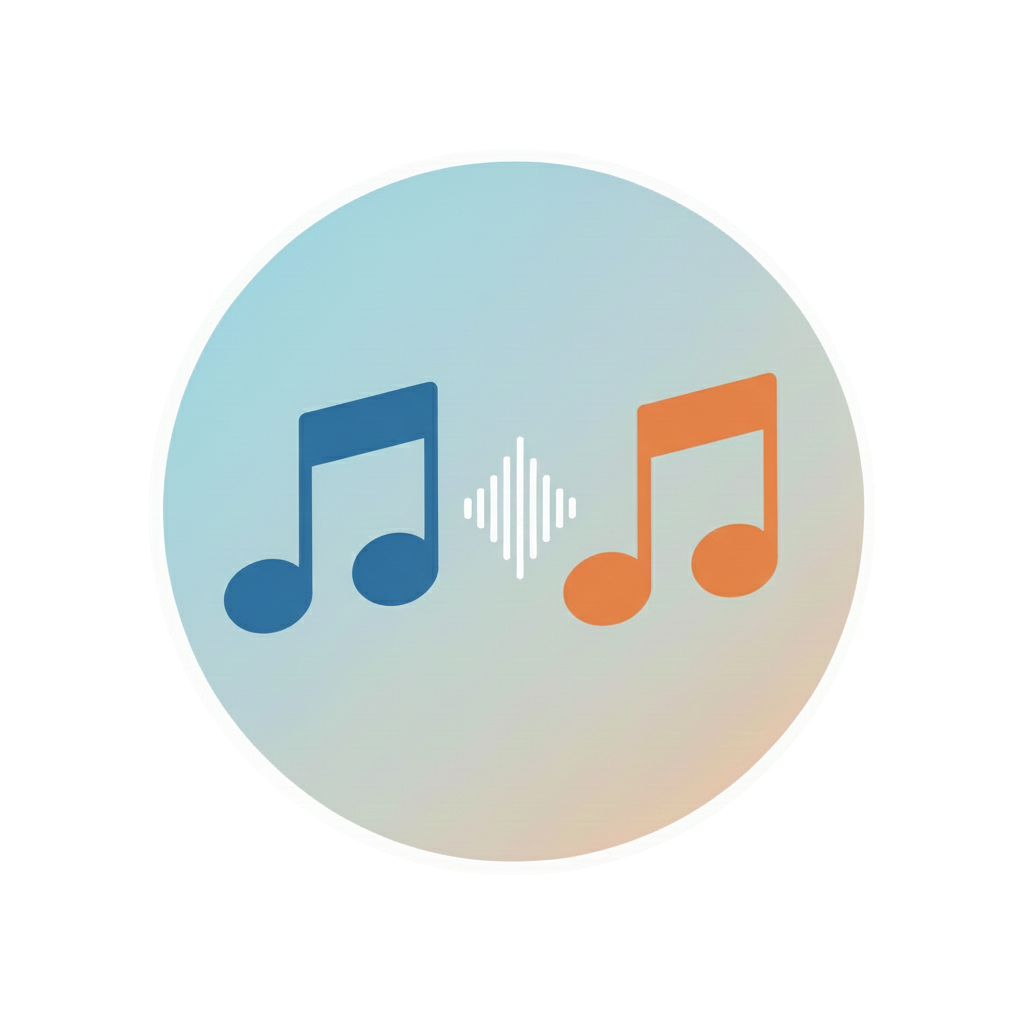
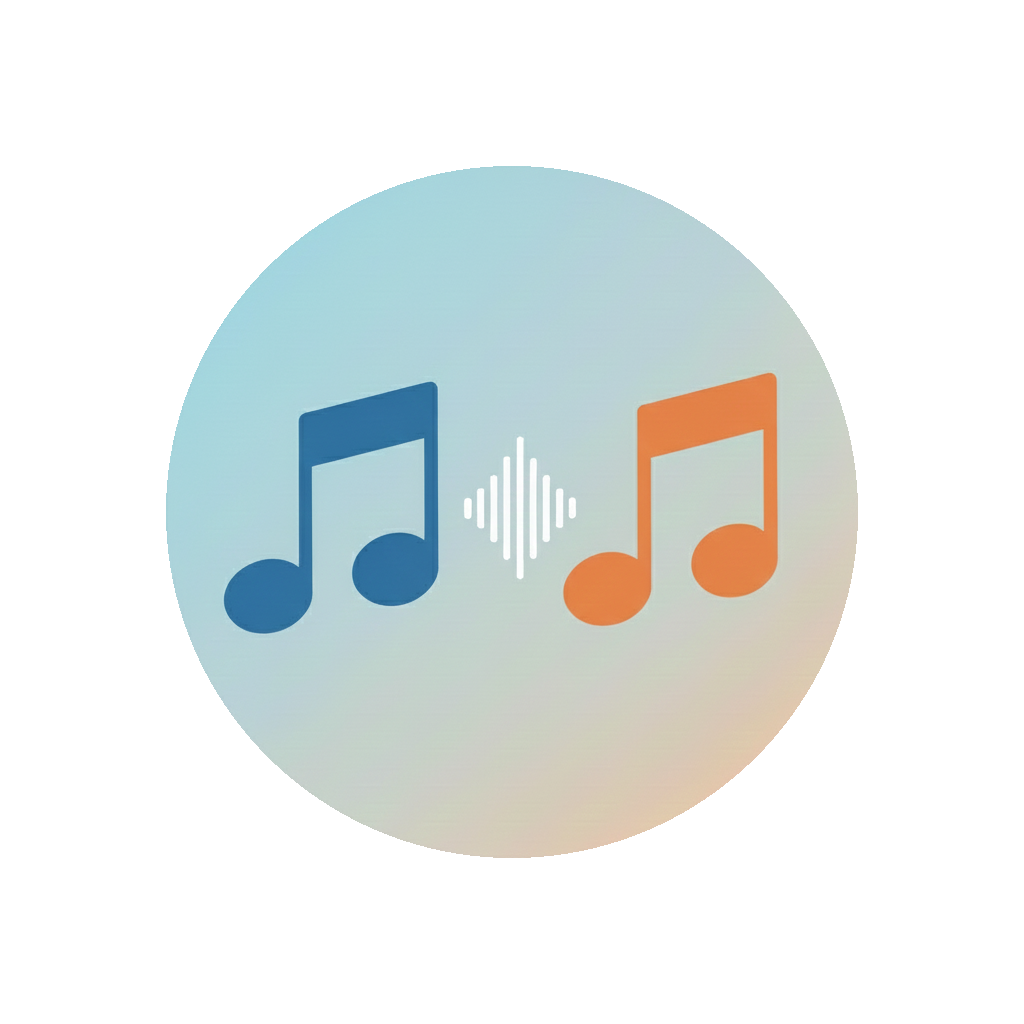
fix(ui): 彻底去掉全屏封面边缘浅色晕边
默认封面按饱和内容硬切并保留纯白描边；去掉全屏封面与磁带壳体外投影，
避免半透明投影和位图软边叠出浅晕。

diff --git a/src/renderer/views/NowPlayingView.vue b/src/renderer/views/NowPlayingView.vue
@@ -130,7 +130,7 @@
           <div class="song-info">
             <h1 class="song-title">{{ currentMusic?.title || $t('nowPlaying.noMusic') }}</h1>
             <p class="song-artist">{{ currentMusic?.artist || $t('nowPlaying.unknownArtist') }}</p>
-            <p class="song-album" v-if="currentMusic?.album">{{ currentMusic.album }}</p>
+            <p class="song-album" :class="{ 'is-empty': !currentMusic?.album }">{{ currentMusic?.album || ' ' }}</p>
           </div>
         </div>
 
@@ -1090,7 +1090,8 @@ watch(
     -1px 0 0 var(--np-outline),
     1px 0 0 var(--np-outline),
     0 0 4px var(--np-outline-glow);
-  --np-cover-shadow: 0 20px 60px rgba(0, 0, 0, 0.3);
+  /* 封面外沿不再用大模糊投影，避免半透明色晕 */
+  --np-cover-shadow: none;
 
   position: fixed;
   top: 0;
@@ -1127,7 +1128,7 @@ watch(
   --np-fill: var(--color-primary);
   --np-outline: rgba(255, 255, 255, 0.95);
   --np-outline-glow: rgba(255, 255, 255, 0.85);
-  --np-cover-shadow: 0 18px 44px rgba(20, 22, 26, 0.16);
+  --np-cover-shadow: none;
 
   background-color: #fafbfc;
 }
@@ -1398,10 +1399,12 @@ watch(
   height: auto;
   border-radius: var(--radius-xl);
   overflow: hidden;
-  box-shadow: var(--np-cover-shadow);
+  box-shadow: none;
   position: relative;
   margin: 0 auto;
   flex-shrink: 0;
+  /* 不透明底，避免圆角抗锯齿透出背景形成浅色晕边 */
+  background: #ffffff;
 }
 
 /* 唱片/CD 跟容器较小边缩放；磁带为横向 1.57 比例，按高度反推宽度 */
@@ -1420,6 +1423,15 @@ watch(
   max-height: 100%;
   aspect-ratio: 1.57;
   height: auto;
+}
+
+.now-playing-view.is-light .album-cover {
+  background: #ffffff;
+}
+
+.now-playing-view:not(.is-light) .album-cover {
+  /* 深色下默认封面外沿是白边，底用白才能衔接；真实封面会铺满盖住 */
+  background: #ffffff;
 }
 
 .album-cover img {
@@ -1462,17 +1474,31 @@ watch(
   font-weight: 700;
   margin-bottom: var(--spacing-xs);
   color: var(--np-fg);
+  white-space: nowrap;
+  overflow: hidden;
+  text-overflow: ellipsis;
 }
 
 .song-artist {
   font-size: var(--font-size-base);
   color: var(--np-fg-2);
   margin-bottom: var(--spacing-xs);
+  white-space: nowrap;
+  overflow: hidden;
+  text-overflow: ellipsis;
 }
 
 .song-album {
   font-size: var(--font-size-sm);
   color: var(--np-fg-3);
+  white-space: nowrap;
+  overflow: hidden;
+  text-overflow: ellipsis;
+}
+
+/* 专辑名可能为空，用不可见占位保留一行高度，避免封面区域可用高度随歌曲跳变 */
+.song-album.is-empty {
+  visibility: hidden;
 }
 
 /* 右侧面板 - 歌词/队列 */

diff --git a/src/renderer/components/effects/Cassette.vue b/src/renderer/components/effects/Cassette.vue
@@ -185,6 +185,8 @@ onBeforeUnmount(() => {
   --hub: #f4f4f6;
   --hub-tooth: #d8d9de;
   --screw: #9a9b9f;
+  /* 壳体仅保留内描边，去掉外投影半透明晕边 */
+  --shell-shadow: none;
 
   position: relative;
   width: 100%;
@@ -206,6 +208,7 @@ onBeforeUnmount(() => {
   --rib: rgba(0, 0, 0, 0.12);
   --label-edge: rgba(0, 0, 0, 0.35);
   --screw: #6a6b70;
+  --shell-shadow: none;
 }
 
 .cassette-shell {
@@ -216,7 +219,7 @@ onBeforeUnmount(() => {
   background:
     linear-gradient(180deg, var(--shell-light) 0%, var(--shell) 42%, var(--shell-dark) 100%);
   box-shadow:
-    0 14px 32px rgba(0, 0, 0, 0.38),
+    var(--shell-shadow),
     inset 0 1px 0 rgba(255, 255, 255, 0.55),
     inset 0 -1px 0 rgba(0, 0, 0, 0.18),
     inset 0 0 0 1px rgba(0, 0, 0, 0.12);

diff --git a/src/renderer/components/common/DefaultCover.vue b/src/renderer/components/common/DefaultCover.vue
@@ -56,8 +56,11 @@ const coverClasses = computed(() => ({
   width: 100% !important;
   height: 100% !important;
   border-radius: inherit;
-  box-shadow: none;
+  box-shadow: none !important;
   transition: none;
+  /* 避免父级投影/滤镜在缩放到大封面时渗出浅色晕边 */
+  filter: none;
+  outline: none;
 }
 
 .default-cover img {
@@ -66,6 +69,10 @@ const coverClasses = computed(() => ({
   object-fit: cover;
   display: block;
   border-radius: inherit;
+  /* 位图缩放时关闭插值渗色感（Chromium 对边缘抗锯齿更干净） */
+  image-rendering: auto;
+  -webkit-backface-visibility: hidden;
+  backface-visibility: hidden;
 }
 
 /* Override styles for fallback mode */

diff --git a/CHANGELOG.md b/CHANGELOG.md
@@ -9,6 +9,7 @@
 
 ### 修复
 - 去掉默认封面圆形外沿的半透明软边色晕，全屏频谱/火焰/闪电/磁带等模式下封面边缘不再发虚
+- 进一步硬切默认封面圆边残留淡边，并去掉全屏封面/磁带壳体外投影，避免边缘再渗出浅色晕
 
 ### 变更
 - 重做全屏/迷你「磁带」特效：对齐实体磁带造型（浅灰横纹壳体、四角螺丝、顶部磁头舱开口朝上、双卷轴齿轮与走带窗）；贴纸区用专辑封面铺满圆角矩形；播放时卷轴旋转；CD/磁带不再误触发频谱 Web Audio 接管
